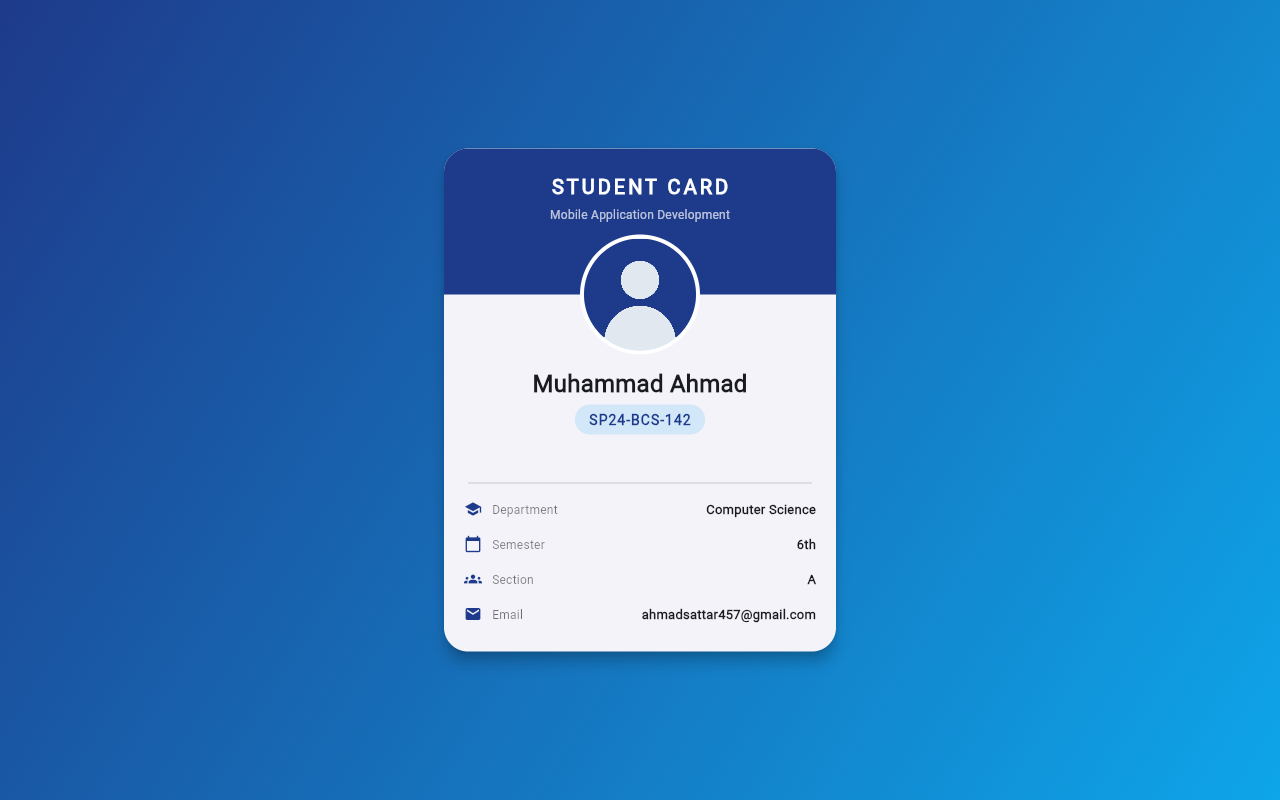
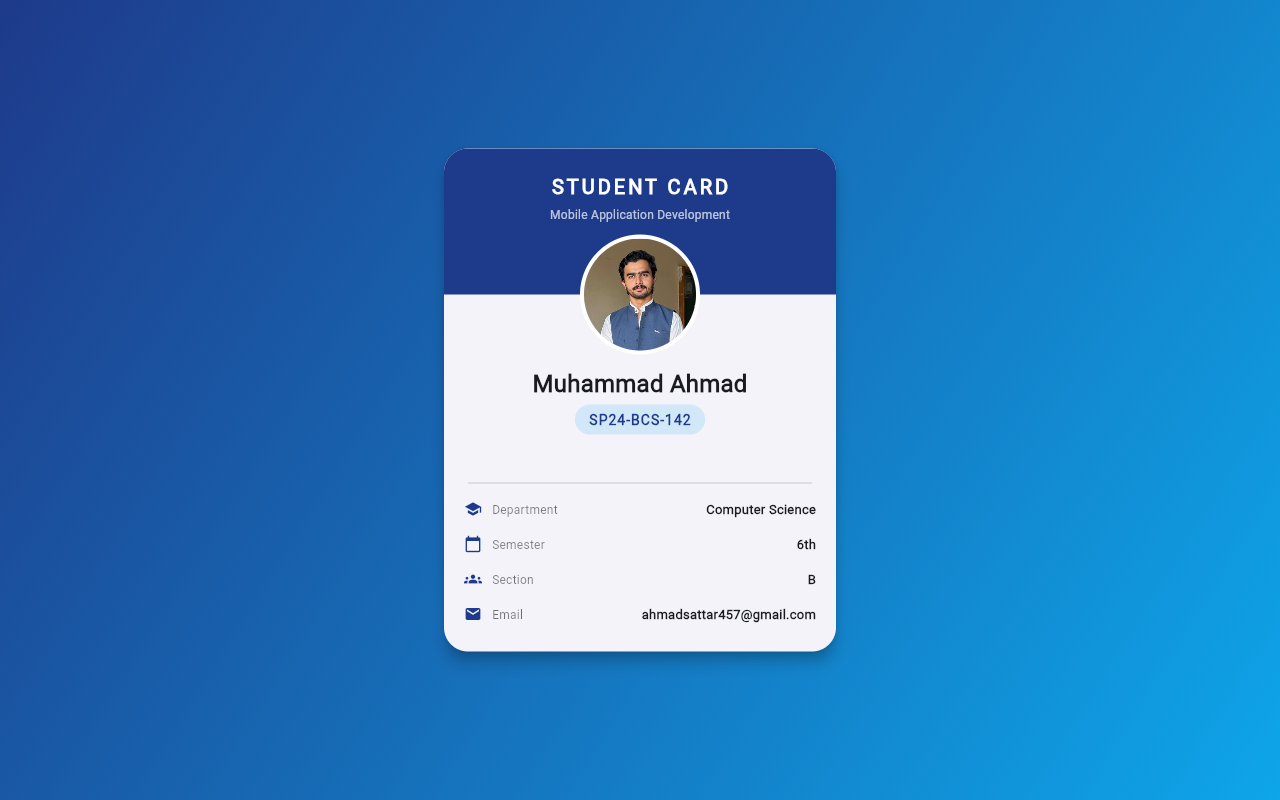
Use real student photo and correct section to B

Changed region(s): [[0.4375, 0.2812, 0.5625, 0.4375]]

diff --git a/lib/main.dart b/lib/main.dart
@@ -6,7 +6,7 @@ const student = {
   'reg': 'SP24-BCS-142',
   'department': 'Computer Science',
   'semester': '6th',
-  'section': 'A',
+  'section': 'B',
   'email': 'ahmadsattar457@gmail.com',
 };
 
@@ -102,6 +102,7 @@ class _Card extends StatelessWidget {
               ),
               child: const CircleAvatar(
                 radius: 56,
+                // headshot crop of assets/images/image.png
                 backgroundImage: AssetImage('assets/images/student.png'),
               ),
             ),
